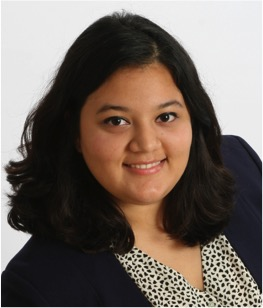
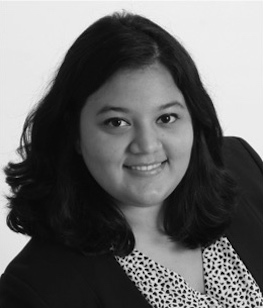
Halle grayscales and positions all members pics

diff --git a/partials/members.html b/partials/members.html
@@ -3,8 +3,10 @@
 <body>
 	<div class="container">
 		<div id="memberInfo" ng-repeat="member in members | orderBy: 'name'">
-		    <img class="teamPics" ng-src="{{member.image}}">
-		    <h2 class="modalHeader" ng-click="memberInfo(member)">{{member.name}}</h2>
+			<div class="col-md-4">
+			    <img class="teamPics" ng-src="{{member.image}}">
+			    <h2 class="modalHeader" ng-click="memberInfo(member)">{{member.name}}</h2>
+			</div>    
 	    </div> 
 	</div>	
 </body>	
